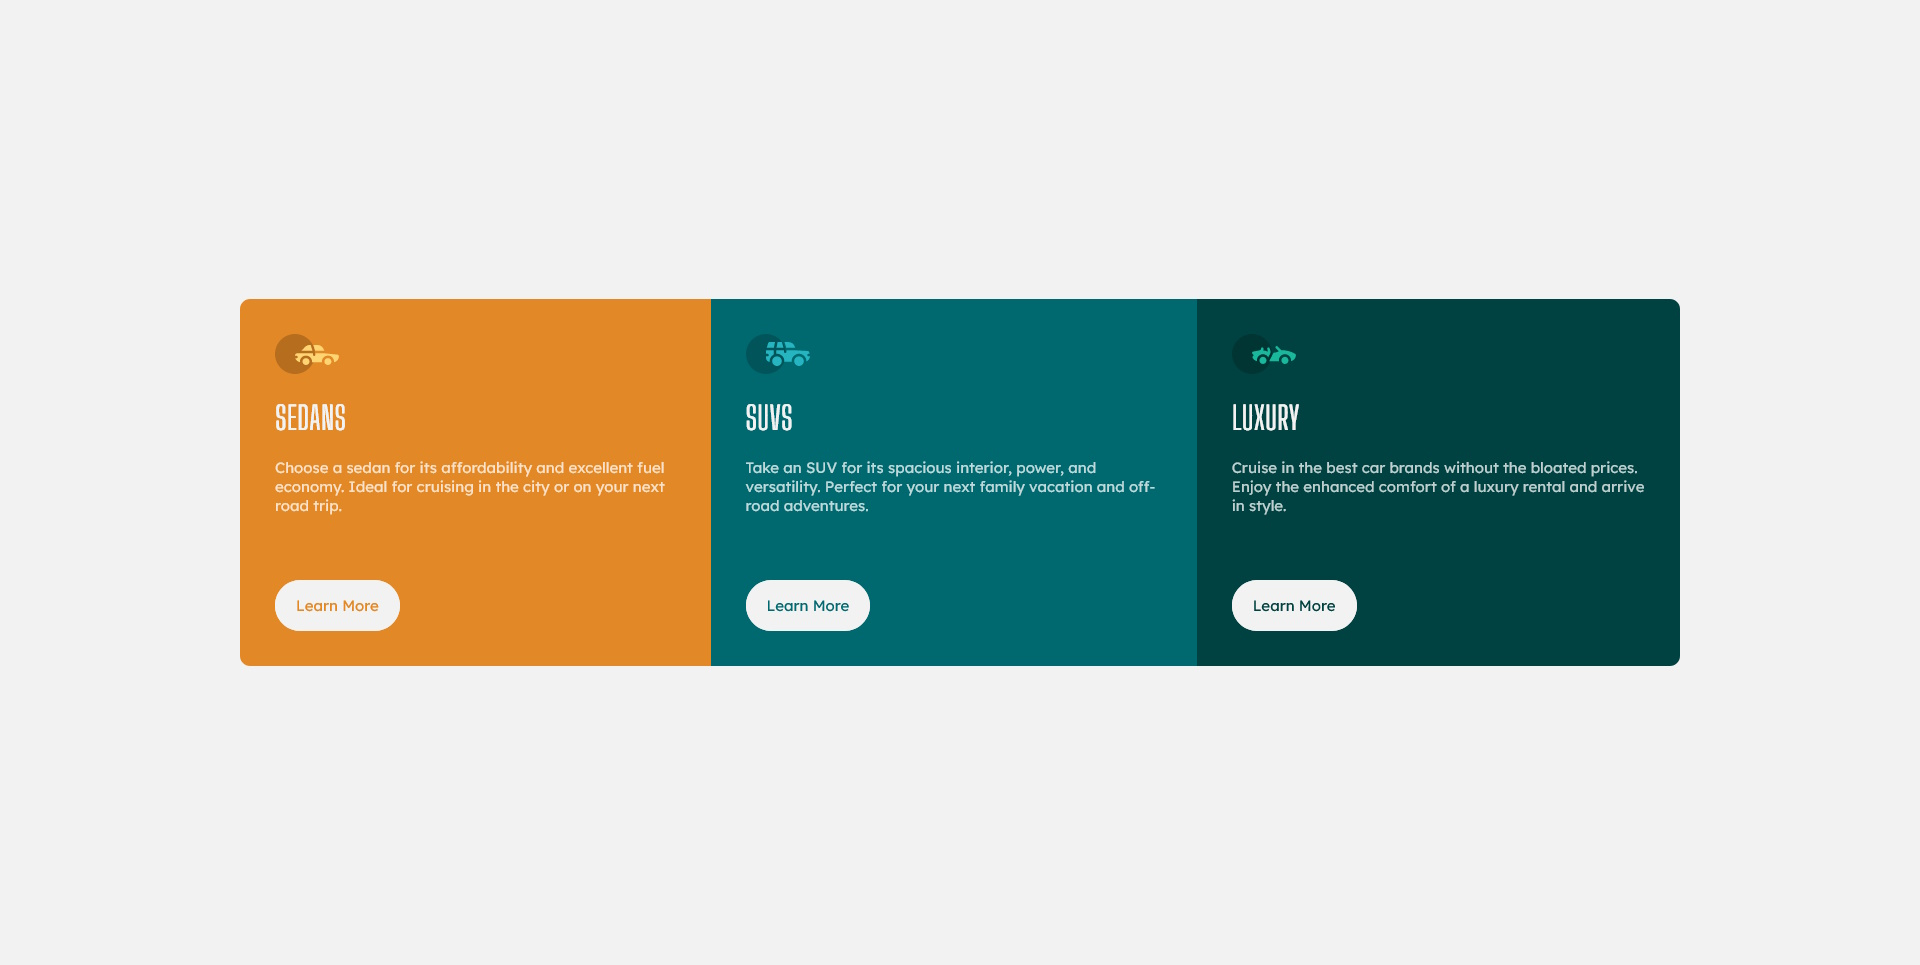
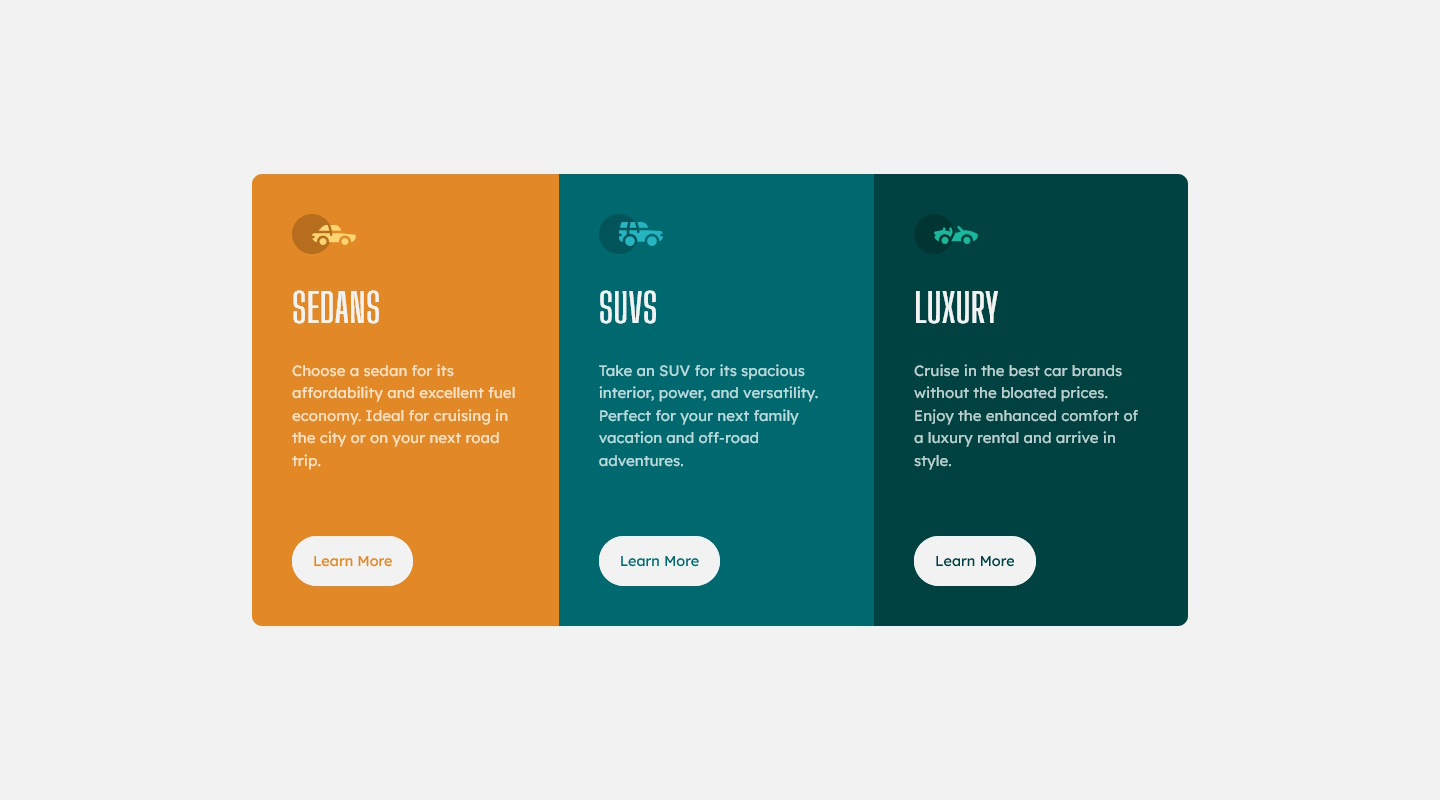
small corrections

Changed region(s): [[0.125, 0.2188, 0.875, 0.7812]]

diff --git a/styles.scss b/styles.scss
@@ -16,6 +16,7 @@ body {
     display: flex;
     align-items: center;
     background-color: $very-light-gray;
+    font-size: 15px;
 }
 
 .container {
@@ -27,21 +28,25 @@ body {
 
 /* ALL CARDS */
 .card {
-    padding: 35px;
+    padding: 40px;
 }
 
 h1 {
     text-transform: uppercase;
     font-family: "Big Shoulders Display";
     font-weight: 700;
+    font-size: 2.5rem;
     color: $very-light-gray;
+}
+
+p {
+    line-height: 1.5;
 }
 
 p,
 .btn {
     font-family: "Lexend Deca";
-    font-weight: 400;    
-    font-size: 15px;
+    font-weight: 400;        
     color: $transparent-white;
 }
 
@@ -49,6 +54,7 @@ p,
     margin-top: 50px;
     background-color: $very-light-gray;
     padding: 15px 20px;
+    font-size: 0.9rem;
     border-radius: 40px;
     border: 1px solid $very-light-gray;
     &:hover {

diff --git a/styles.css b/styles.css
@@ -6,6 +6,7 @@ body {
   display: flex;
   align-items: center;
   background-color: hsl(0, 0%, 95%);
+  font-size: 15px;
 }
 
 .container {
@@ -17,21 +18,25 @@ body {
 
 /* ALL CARDS */
 .card {
-  padding: 35px;
+  padding: 40px;
 }
 
 h1 {
   text-transform: uppercase;
   font-family: "Big Shoulders Display";
   font-weight: 700;
+  font-size: 2.5rem;
   color: hsl(0, 0%, 95%);
+}
+
+p {
+  line-height: 1.5;
 }
 
 p,
 .btn {
   font-family: "Lexend Deca";
   font-weight: 400;
-  font-size: 15px;
   color: hsla(0, 0%, 100%, 0.75);
 }
 
@@ -39,6 +44,7 @@ p,
   margin-top: 50px;
   background-color: hsl(0, 0%, 95%);
   padding: 15px 20px;
+  font-size: 0.9rem;
   border-radius: 40px;
   border: 1px solid hsl(0, 0%, 95%);
 }

diff --git a/index.html b/index.html
@@ -39,6 +39,5 @@
 
     </div>
   </main>
-</div>
 </body>
 </html>
